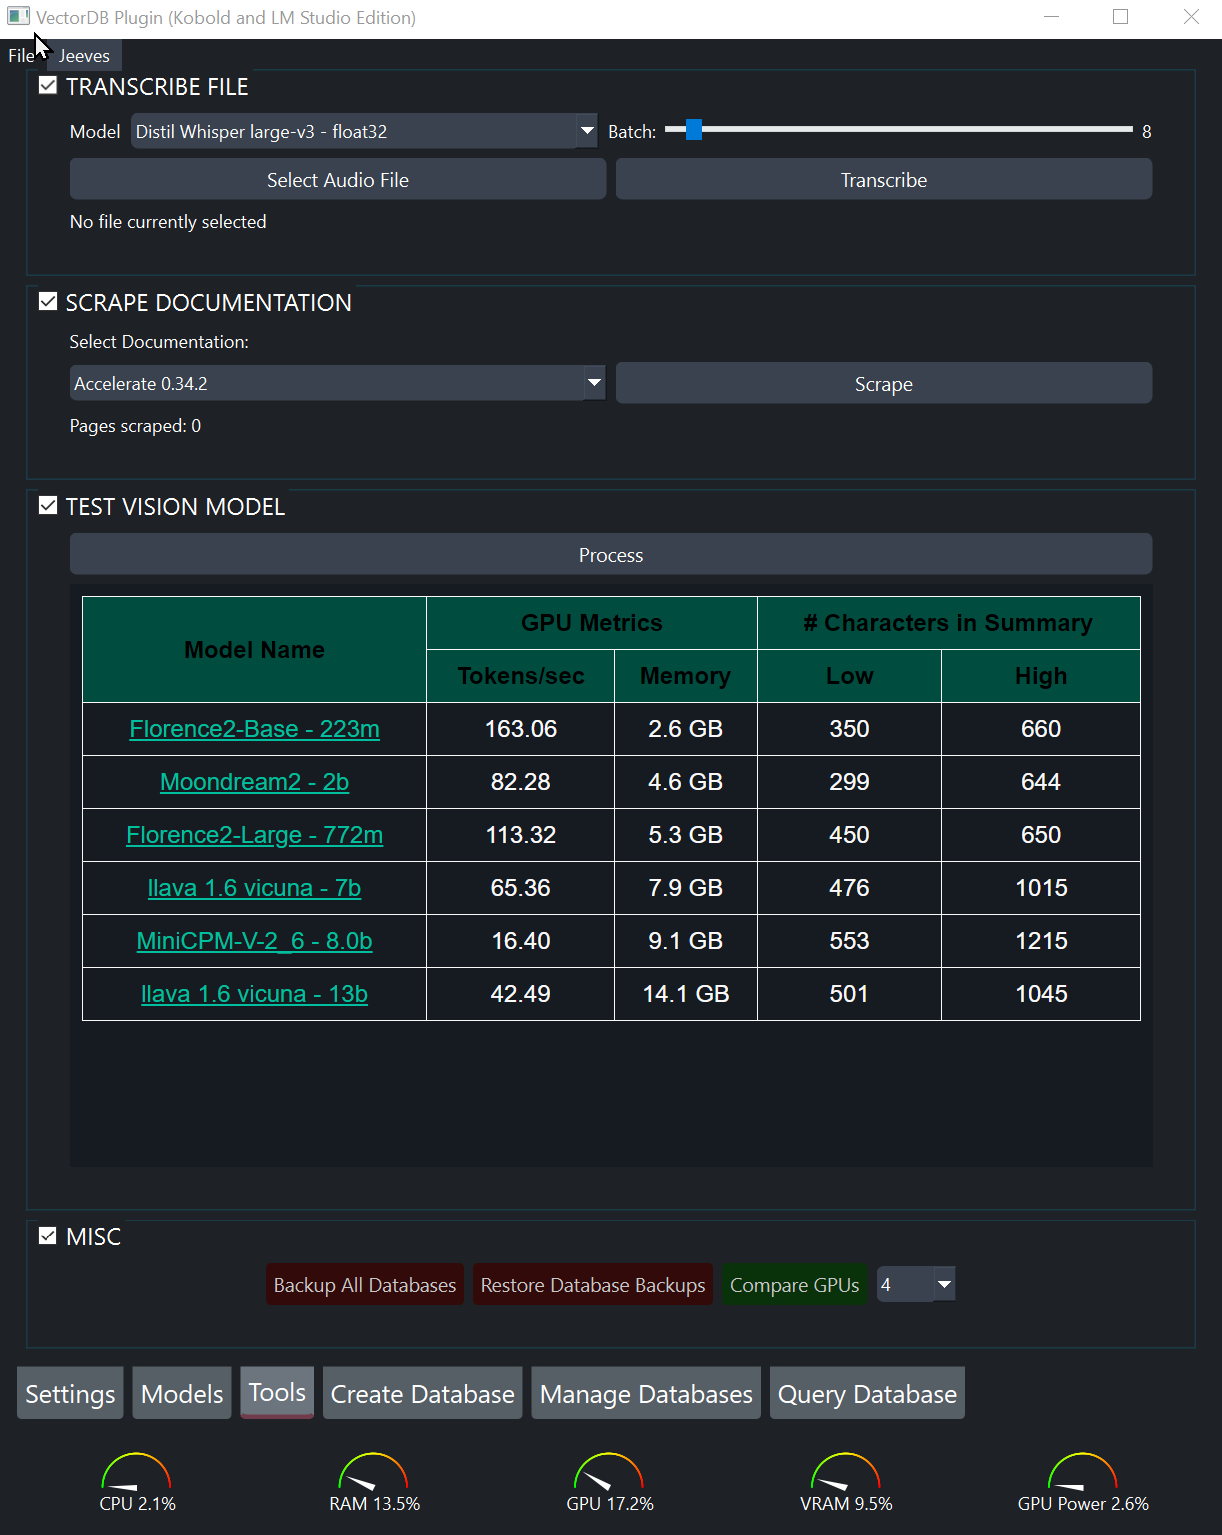
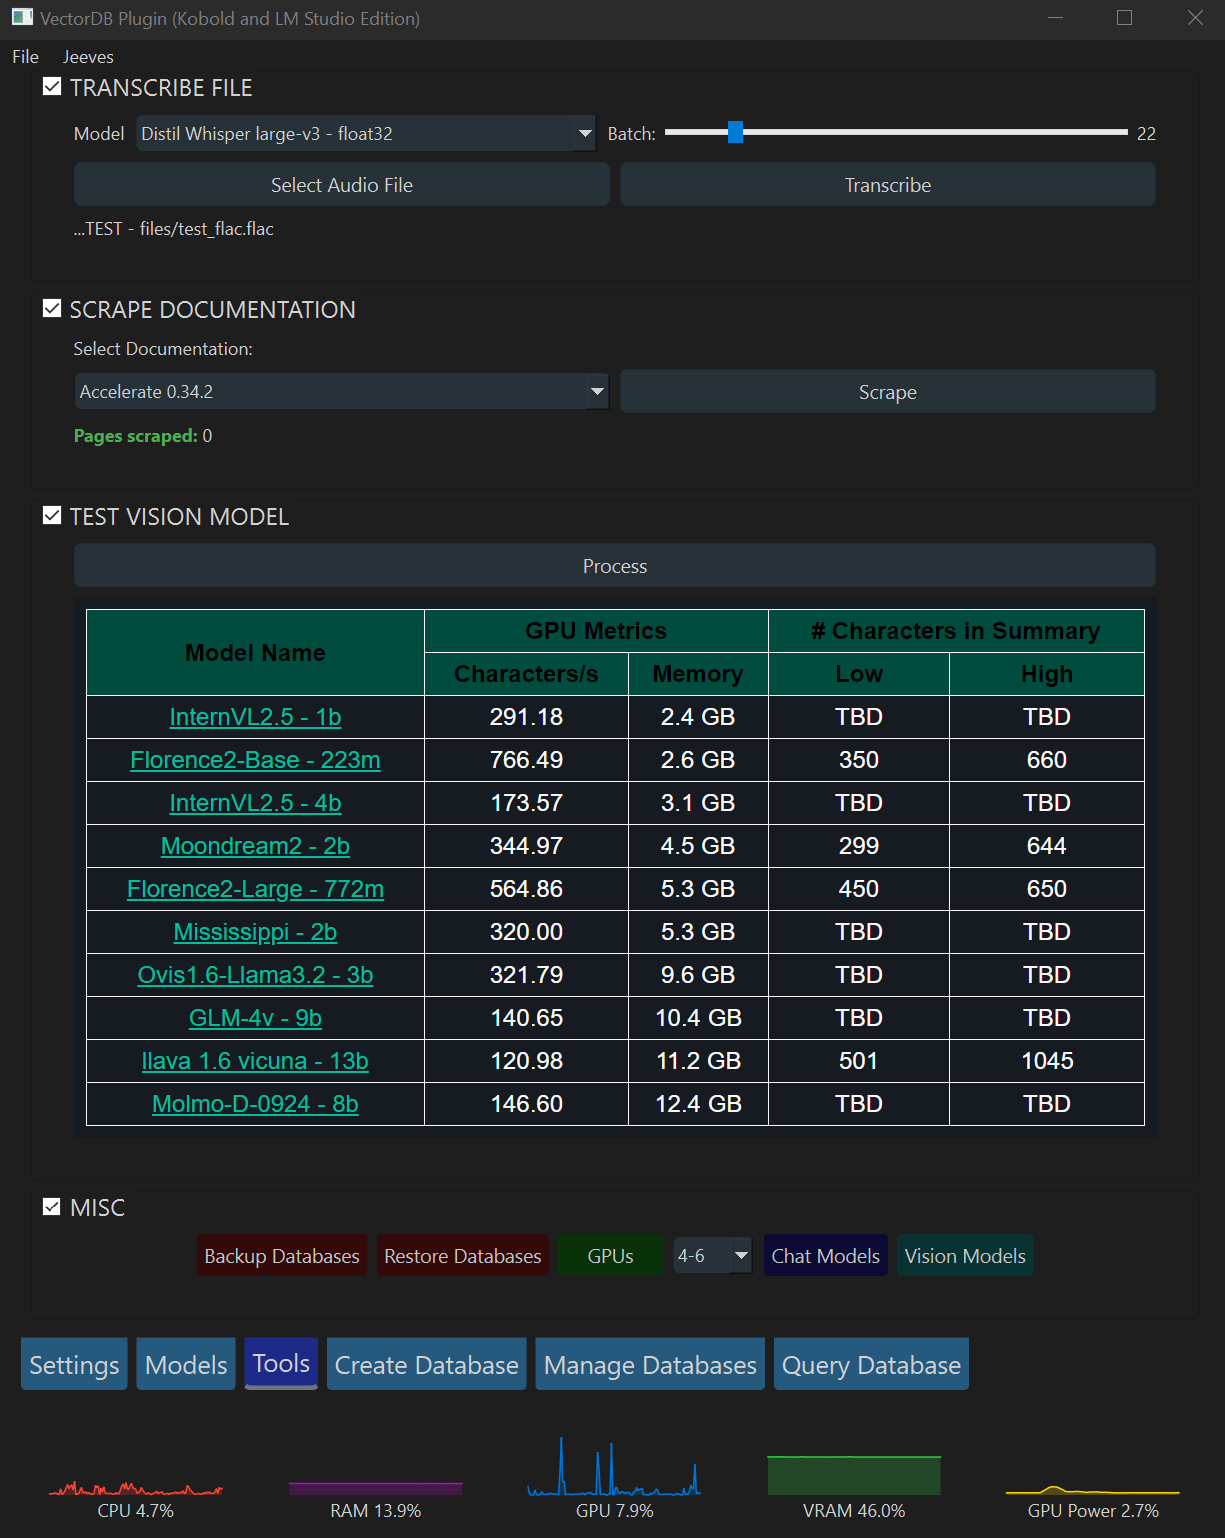
v7.0.0

diff --git a/src/Assets/vision_model_table.html b/src/Assets/vision_model_table.html
@@ -57,11 +57,25 @@
         <th>High</th>
     </tr>
     <tr>
+        <td><a href="https://huggingface.co/OpenGVLab/InternVL2_5-1B">InternVL2.5 - 1b</a></td>
+        <td>291.18</td>
+        <td>2.4 GB</td>
+        <td>TBD</td>
+        <td>TBD</td>
+    </tr>
+    <tr>
         <td><a href="https://huggingface.co/microsoft/Florence-2-base">Florence2-Base - 223m</a></td>
         <td>766.49</td>
         <td>2.6 GB</td>
         <td>350</td>
         <td>660</td>
+    </tr>
+    <tr>
+        <td><a href="https://huggingface.co/OpenGVLab/InternVL2_5-4B">InternVL2.5 - 4b</a></td>
+        <td>173.57</td>
+        <td>3.1 GB</td>
+        <td>TBD</td>
+        <td>TBD</td>
     </tr>
     <tr>
         <td><a href="https://huggingface.co/vikhyatk/moondream2">Moondream2 - 2b</a></td>
@@ -83,20 +97,6 @@
         <td>5.3 GB</td>
         <td>TBD</td>
         <td>TBD</td>
-    </tr>
-    <tr>
-        <td><a href="https://huggingface.co/llava-hf/llava-v1.6-vicuna-7b-hf">llava 1.6 vicuna - 7b</a></td>
-        <td>146.18</td>
-        <td>6.9 GB</td>
-        <td>476</td>
-        <td>1015</td>
-    </tr>
-    <tr>
-        <td><a href="https://huggingface.co/openbmb/MiniCPM-V-2_6-int4">MiniCPM-V-2_6 - 8.0b</a></td>
-        <td>99.28</td>
-        <td>7.7 GB</td>
-        <td>553</td>
-        <td>1215</td>
     </tr>
     <tr>
         <td><a href="https://huggingface.co/AIDC-AI/Ovis1.6-Llama3.2-3B">Ovis1.6-Llama3.2 - 3b</a></td>

diff --git a/src/Assets/core.py b/src/Assets/core.py
@@ -68,57 +68,80 @@ class Chat:
         force_redownload=False,
         custom_path: Optional[torch.serialization.FILE_LIKE] = None,
         cache_dir: Optional[str] = None,
+        local_dir: Optional[str] = None,
     ) -> Optional[str]:
         if source == "local":
-            download_path = cache_dir if cache_dir else os.getcwd()
-            if (
-                not check_all_assets(Path(download_path), self.sha256_map, update=True)
-                or force_redownload
-            ):
+            download_path = local_dir if local_dir else (cache_dir if cache_dir else os.getcwd())
+            if local_dir:
+                # Skip hash checking when using local_dir
                 with tempfile.TemporaryDirectory() as tmp:
                     download_all_assets(tmpdir=tmp)
-                if not check_all_assets(
-                    Path(download_path), self.sha256_map, update=False
+            else:
+                # Do hash checking for cache_dir or default path
+                if (
+                    not check_all_assets(Path(download_path), self.sha256_map, update=True)
+                    or force_redownload
                 ):
-                    self.logger.error(
-                        "download to local path %s failed.", download_path
-                    )
-                    return None
+                    with tempfile.TemporaryDirectory() as tmp:
+                        download_all_assets(tmpdir=tmp)
+                    if not check_all_assets(
+                        Path(download_path), self.sha256_map, update=False
+                    ):
+                        self.logger.error(
+                            "download to local path %s failed.", download_path
+                        )
+                        return None
+
         elif source == "huggingface":
-            if cache_dir:
-                try:
+            try:
+                if local_dir:
+                    # Skip hash checking when using local_dir
+                    download_path = snapshot_download(
+                        repo_id="2Noise/ChatTTS",
+                        allow_patterns=["*.yaml", "*.json", "*.safetensors"],
+                        local_dir=local_dir,
+                        force_download=force_redownload
+                    )
+                elif cache_dir:
+                    # Download to cache_dir and verify hashes
                     download_path = snapshot_download(
                         repo_id="2Noise/ChatTTS",
                         allow_patterns=["*.yaml", "*.json", "*.safetensors"],
                         cache_dir=cache_dir,
                         force_download=force_redownload
                     )
-                except:
-                    download_path = None
-            else:
-                hf_home = os.getenv("HF_HOME", os.path.expanduser("~/.cache/huggingface"))
-                try:
-                    download_path = get_latest_modified_file(
-                        os.path.join(hf_home, "hub/models--2Noise--ChatTTS/snapshots")
-                    )
-                except:
-                    download_path = None
-                if download_path is None or force_redownload:
-                    self.logger.log(
-                        logging.INFO,
-                        f"download from HF: https://huggingface.co/2Noise/ChatTTS",
-                    )
+                    if not check_all_assets(Path(download_path), self.sha256_map, update=False):
+                        self.logger.error("Model verification failed")
+                        return None
+                else:
+                    # Original behavior for default HF cache
+                    hf_home = os.getenv("HF_HOME", os.path.expanduser("~/.cache/huggingface"))
                     try:
+                        download_path = get_latest_modified_file(
+                            os.path.join(hf_home, "hub/models--2Noise--ChatTTS/snapshots")
+                        )
+                    except:
+                        download_path = None
+                    if download_path is None or force_redownload:
+                        self.logger.log(
+                            logging.INFO,
+                            f"download from HF: https://huggingface.co/2Noise/ChatTTS",
+                        )
                         download_path = snapshot_download(
                             repo_id="2Noise/ChatTTS",
                             allow_patterns=["*.yaml", "*.json", "*.safetensors"],
                         )
-                    except:
-                        download_path = None
-                else:
-                    self.logger.log(
-                        logging.INFO, f"load latest snapshot from cache: {download_path}"
-                    )
+                        if not check_all_assets(Path(download_path), self.sha256_map, update=False):
+                            self.logger.error("Model verification failed")
+                            return None
+                    else:
+                        self.logger.log(
+                            logging.INFO, f"load latest snapshot from cache: {download_path}"
+                        )
+            except Exception as e:
+                self.logger.error(f"Failed to download models: {str(e)}")
+                download_path = None
+
         elif source == "custom":
             self.logger.log(logging.INFO, f"try to load from local: {custom_path}")
             if not check_all_assets(Path(custom_path), self.sha256_map, update=False):
@@ -145,8 +168,9 @@ class Chat:
         use_vllm=False,
         experimental: bool = False,
         cache_dir: Optional[str] = None,
+        local_dir: Optional[str] = None,
     ) -> bool:
-        download_path = self.download_models(source, force_redownload, custom_path, cache_dir)
+        download_path = self.download_models(source, force_redownload, custom_path, cache_dir, local_dir)
         if download_path is None:
             return False
         return self._load(
